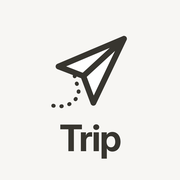
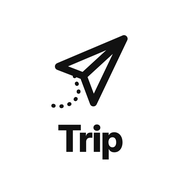
v14.3: アイコンをNotion風の白背景+黒の線に
Claude-Session: https://claude.ai/code/session_01YWAXfeJuB4FYGXzAeEAgqX

diff --git a/index.html b/index.html
@@ -8,8 +8,8 @@
 <meta name="apple-mobile-web-app-title" content="家族旅行">
 <meta name="apple-mobile-web-app-status-bar-style" content="default">
 <meta name="theme-color" content="#ffffff">
-<link rel="apple-touch-icon" href="icon.png?v=3">
-<link rel="icon" href="icon.png?v=3">
+<link rel="apple-touch-icon" href="icon.png?v=4">
+<link rel="icon" href="icon.png?v=4">
 <link rel="manifest" href="manifest.json">
 <title>家族旅行ノート</title>
 <style>
@@ -205,7 +205,7 @@ try { db = initializeFirestore(fbApp, { localCache: persistentLocalCache({ tabMa
 catch (e) { db = getFirestore(fbApp); }
 
 /* ================= 共通 ================= */
-const VERSION = 'v14.2';
+const VERSION = 'v14.3';
 const $ = s => document.querySelector(s);
 const esc = s => String(s ?? '').replace(/[&<>"']/g, c => ({'&':'&amp;','<':'&lt;','>':'&gt;','"':'&quot;',"'":'&#39;'}[c]));
 const WD = ['日','月','火','水','木','金','土'];
